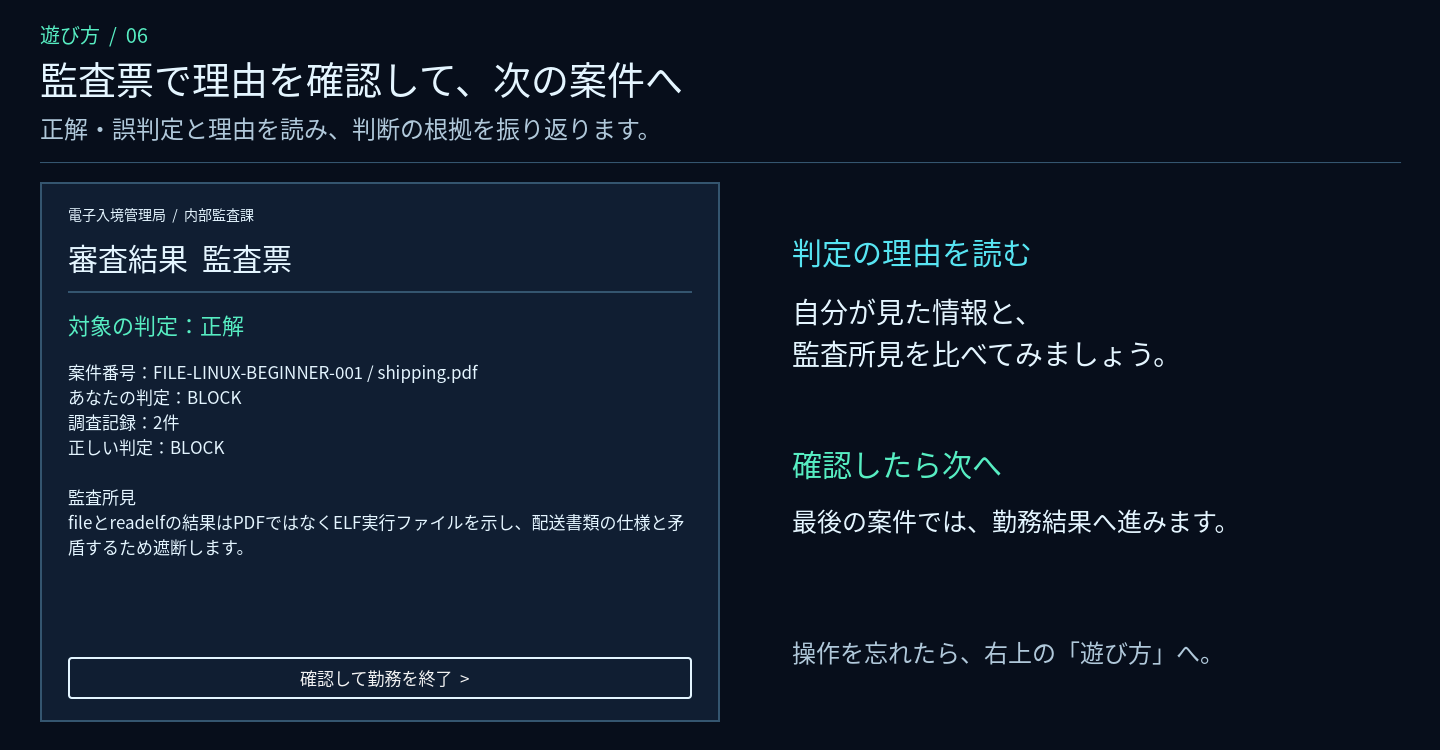
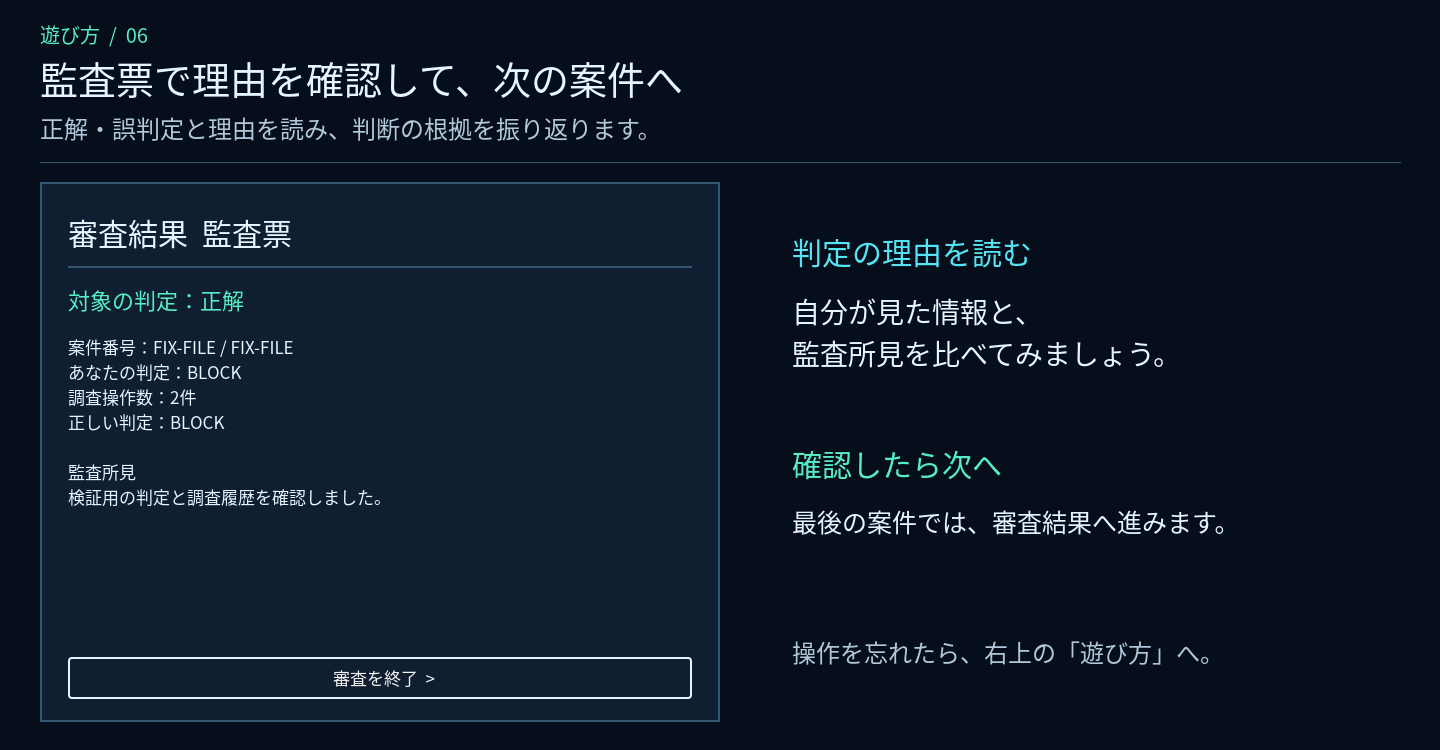
ゲーム内の勤務表記を審査に統一

Changed region(s): [[0.0312, 0.276, 0.4688, 0.736], [0.5312, 0.6747, 0.8438, 0.736], [0.1875, 0.8893, 0.3125, 0.92]]

diff --git a/scripts/build_how_to_slides.py b/scripts/build_how_to_slides.py
@@ -25,7 +25,7 @@ class Slide:
             "1440x750",
             "xc:#070e1b",
             "-font",
-            str(FONT),
+            FONT.as_posix(),
             "-gravity",
             "NorthWest",
         ]
@@ -191,7 +191,7 @@ def main():
     slide.text(792, 239, "判定の理由を読む", 30, CYAN)
     slide.text(792, 298, "自分が見た情報と、\n監査所見を比べてみましょう。", 28)
     slide.text(792, 451, "確認したら次へ", 30, GREEN)
-    slide.text(792, 510, "最後の案件では、勤務結果へ進みます。", 25)
+    slide.text(792, 510, "最後の案件では、審査結果へ進みます。", 25)
     slide.text(792, 641, "操作を忘れたら、右上の「遊び方」へ。", 24, MUTED)
     slide.save("06-audit.png")
     print(f"Generated 6 slides in {OUTPUT.relative_to(ROOT)}")

diff --git a/docs/runtime-flow.md b/docs/runtime-flow.md
@@ -26,8 +26,8 @@
 | Schemaと意味検証，実行時データへの変換 | [content_schema.gd](../src/validation/content_schema.gd)，[problem_loader.gd](../src/content/problem_loader.gd) |
 | 表示テンプレート・入力の接続，到達性・必要証拠 | [information.gd](../src/domain/information.gd)，[investigation_inputs.gd](../src/domain/investigation_inputs.gd) |
 | 案件ID・調査OSの共通ルール | [problem_context.gd](../src/domain/problem_context.gd)．検証と実行から参照し，ローダ・実行器には依存しない |
-| 勤務・時計・判定・記録，模擬結果 | [inspection_shift.gd](../src/domain/inspection_shift.gd)，[tool_runner.gd](../src/domain/tool_runner.gd) |
-| 画面遷移，サービスの接続，勤務完了時の保存 | [game.gd](../src/app/game.gd) |
+| 審査・時計・判定・記録，模擬結果 | [inspection_shift.gd](../src/domain/inspection_shift.gd)，[tool_runner.gd](../src/domain/tool_runner.gd) |
+| 画面遷移，サービスの接続，審査完了時の保存 | [game.gd](../src/app/game.gd) |
 | カードの寿命・情報選択・調査・押印 | [inspection_workspace.gd](../src/ui/inspection/inspection_workspace.gd)．D&D部品も同じディレクトリ |
 | 出題選択・教材追加，履歴一覧 | [start_screen.gd](../src/ui/screens/start_screen.gd)，[history_screen.gd](../src/ui/screens/history_screen.gd) |
 | 結果の表示・タブ・復習リンク | [summary_screen.gd](../src/ui/results/summary_screen.gd)，[分析の索引](result-analysis.md) |
@@ -36,7 +36,7 @@
 
 実行コードは `src/`，開発用エントリーポイントは `scripts/`．`domain/` は教材読込・保存・UIに依存せず，`app/` がサービスと画面を接続します．画面は自分の部品・表示状態を所有し，親への要求はシグナルで通知します．部品生成ヘルパーへ親画面全体を渡さないこと．依存方向と循環は [test_module_boundaries.py](../tests/test_module_boundaries.py) で検証します．
 
-勤務状態の正本は `InspectionShift`．カードに正解・採点データを渡さず，UIで表示項目の意味を推測しません．前面化は同じ親の最後の子へ移し，描画順と入力順を揃えます．Referenceの再表示は再利用，Tool結果の再表示は再調査です．押印待機と外部照会の確定では，案件変更前の操作を世代番号で拒否します．
+審査状態の正本は `InspectionShift`．カードに正解・採点データを渡さず，UIで表示項目の意味を推測しません．前面化は同じ親の最後の子へ移し，描画順と入力順を揃えます．Referenceの再表示は再利用，Tool結果の再表示は再調査です．押印待機と外部照会の確定では，案件変更前の操作を世代番号で拒否します．
 
 対象は左に固定し，押印はD&Dのみ．位置復帰・三本線メニュー・入力トレー・資料一覧・比較配置・記録ボタン・ログ専用画面・下部説明欄・対象イラストは設けません．メニューはESC．寸法・伸縮は `inspection_workspace.gd` と [test_content_sizing.gd](../tests/test_content_sizing.gd)，停止・復帰・古い操作の拒否は [test_ui.gd](../tests/test_ui.gd) / [test_interaction.gd](../tests/test_interaction.gd) を参照．
 
@@ -44,4 +44,4 @@
 
 ## 教材の境界
 
-全資料・外部照会はローカルJSONの模擬です．実コマンド・外部API・ブラウザー起動・File Upload・任意File解析・自由入力の照会は行いません．NPC対話・自動比較・日ごとの進行・勤務途中の再開は未実装です．
+全資料・外部照会はローカルJSONの模擬です．実コマンド・外部API・ブラウザー起動・File Upload・任意File解析・自由入力の照会は行いません．NPC対話・自動比較・日ごとの進行・審査途中の再開は未実装です．

diff --git a/docs/learning-support.md b/docs/learning-support.md
@@ -11,8 +11,8 @@
 
 Port（通信／端末）やResolver（DNS／パッケージ）は文脈別IDを使う．文字列検索で関連付けず，定義やtitle・explanationから正解・未閲覧の事実を先出ししない．閲覧制御は [glossary.gd](../src/content/glossary.gd)，紛らわしい用語の検証は [test_learning_support.py](../tests/test_learning_support.py)．
 
-履歴は勤務終了時に `user://history/` へ保存し，教材がなくても当時の結果を表示する．新規はversion 3，既存version 2も読める．保存上の `level` は互換性のため維持し，新規の値は問題の `difficulty`．結果の再集計は [勤務結果の分析](result-analysis.md)．
+履歴は審査終了時に `user://history/` へ保存し，教材がなくても当時の結果を表示する．新規はversion 3，既存version 2も読める．保存上の `level` は互換性のため維持し，新規の値は問題の `difficulty`．結果の再集計は [審査結果の分析](result-analysis.md)．
 
-再挑戦は読込元IDと問題IDで現行の検証済み問題を選び，同名の別教材で代用しない．旧履歴version 2に記録されたlearning Packはbuiltinに対応する．`retry_of` に元勤務IDを残す．定義変更・重複・未読込の扱いは [wrong_answer_retry.gd](../src/app/wrong_answer_retry.gd) と [test_wrong_answer_retry.gd](../tests/test_wrong_answer_retry.gd)．
+再挑戦は読込元IDと問題IDで現行の検証済み問題を選び，同名の別教材で代用しない．旧履歴version 2に記録されたlearning Packはbuiltinに対応する．`retry_of` に元審査IDを残す．定義変更・重複・未読込の扱いは [wrong_answer_retry.gd](../src/app/wrong_answer_retry.gd) と [test_wrong_answer_retry.gd](../tests/test_wrong_answer_retry.gd)．
 
 保存・整理・再試行は [history_store.gd](../src/persistence/history_store.gd)，検証は [test_learning_support.gd](../tests/test_learning_support.gd)．上限超過分の削除は保存成功後だけで，破損・未知版・一時ファイルは残す．同IDの異なる内容で上書きしない．`*.index.json` は本体のSHA-256で照合する派生索引で，不足・破損時は本体から再生成する．

diff --git a/docs/result-analysis.md b/docs/result-analysis.md
@@ -1,4 +1,4 @@
-# 勤務結果の分析
+# 審査結果の分析
 
 ## 編集先
 
@@ -15,7 +15,7 @@
 - 必要情報充足率は初期情報だけで足りる問題も含む．スタイルの確認率は追加調査が必要な問題だけで，分母が異なる．どちらも読解力・性格の尺度ではない．
 - 調査操作数は記録された失敗を含み，送信見送り・Referenceの再表示・UIで止めた操作を除く．「実行完了」は適切な調査という意味ではない．不適切調査は `ok && correct_usage == false` で，外部送信以外にも設定できる．
 - 未出題・分母0は未評価．0点・100点で補完せず，三角形は全軸にデータがあるときだけ塗る．見た箇所や誤答の原因は推測しない．
-- 時間と操作数はタイプ判定に使わない．時間の棒は勤務ごとに目盛りが変わり，長さだけで勤務間を比較できない．表示は合計のみ．
+- 時間と操作数はタイプ判定に使わない．時間の棒は審査ごとに目盛りが変わり，長さだけで審査間を比較できない．表示は合計のみ．
 
 プロ級は根拠確認を優先し，直感型・中間との組み合わせを作らない．未評価・未知の難易度から高難度を推測しない．表示名は内部判定と分離し，記録不足は「セキュリティチャレンジャー」，`retry_of` のある結果は「復習者」．プロフィール・具体的助言・復習リンクは `show_expected && show_reason`，三角形は `show_expected` のときだけ表示する．
 

diff --git a/README.md b/README.md
@@ -19,7 +19,7 @@ godot --path .
 - [作問・検証](docs/problem-data.md) スキーマ，入力の接続例，一覧の再生成
 - [問題一覧](docs/problem-catalog.md)：問題JSONから生成する分野・調査形式・正解の索引
 - [学習設計](docs/learning-design.md)：判定時点，教材の制約，未実装の拡張計画
-- [学習支援](docs/learning-support.md)：用語集・勤務履歴の編集先
+- [学習支援](docs/learning-support.md)：用語集・審査履歴の編集先
 - [実行時の処理](docs/runtime-flow.md)：OS条件，状態管理，変更箇所の索引
 
 Python 3.11以上を使います．ゲームの起動・エクスポートにPythonの開発用依存は不要です．
